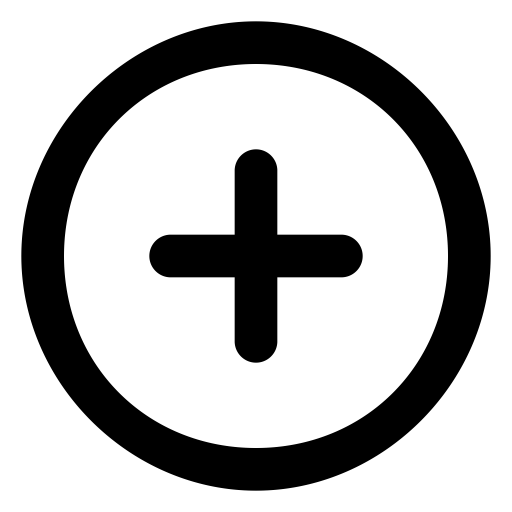
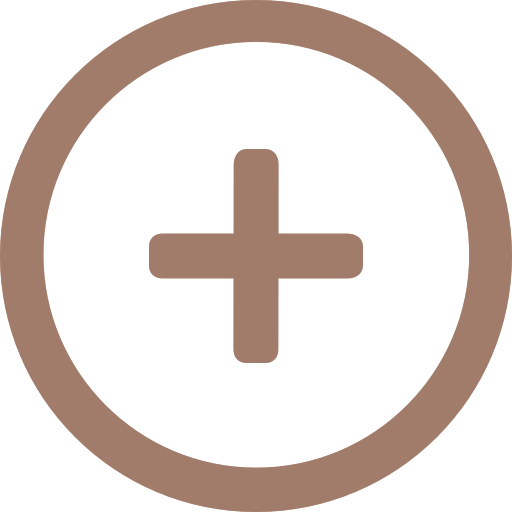
Added style

diff --git a/src/App/components/Todos/Todos.js b/src/App/components/Todos/Todos.js
@@ -1,5 +1,6 @@
 import React from "react";
 import TodoForm from "../TodoForm/TodoForm";
+import "./Todos.css";
 
 export default class Todos extends React.Component{
     constructor(props) {
@@ -62,16 +63,25 @@ export default class Todos extends React.Component{
               }
     render(){ 
         return(
-        <div>
+        <div className="todo-list-container">
             <h1>To do List:</h1>
             <TodoForm onFormSubmit={this.onFormSubmit}/>
+
             {this.state.todolist.map((todo) => {
     return(
-    <div key={todo.id}>  
-  <input name="task" defaultValue={todo.task} type="text" onChange={ (e) => this.handleChange(e.target.value, todo.id)}/>
-    <button value={todo.id} onClick={() => this.handleTodoDelete(todo.id)}>
+    <div className="todo_container" key={todo.id}>  
+    <ul>
+      <li>
+      <input name="task" defaultValue={todo.task} type="text" onChange={ (e) => this.handleChange(e.target.value, todo.id)}/>
+      </li>
+      <li>
+      <button value={todo.id} onClick={() => this.handleTodoDelete(todo.id)}>
         <img alt="trash icon" src={require('../../images/trash-icon.png')} style={{width: 30}} />
         </button>
+      </li>
+    </ul>
+  
+    
     </div>
     )
   })

diff --git a/src/App/components/Todos/Todos.css b/src/App/components/Todos/Todos.css
@@ -1,0 +1,64 @@
+.todo-list-container {
+  background-color: white;
+  border-radius: 10px;
+  min-height: 150px;
+  height: auto;
+  margin: auto;
+  width: 40%;
+  padding-bottom: 50px;
+}
+
+h1 {
+  font-family: "Caveat", cursive;
+  font-size: 50px;
+  font-weight: 50;
+}
+
+input[type="text"] {
+  font-family: "Dekko", cursive;
+  font-size: 18px;
+}
+
+button {
+  background: none;
+  border: none;
+  padding: 0;
+  cursor: pointer;
+  transition: all 0.2s ease-in-out;
+}
+
+button:hover {
+  transform: scale(1.1);
+}
+
+input {
+  min-width: 18vw;
+  border: 0;
+  border-bottom: 2px solid gray;
+  outline: 0;
+  padding: 7px 0;
+  background: transparent;
+  transition: border-color 0.2s;
+}
+
+input[type="text"]:hover {
+  color: #a17c6b;
+}
+
+img {
+  bottom: 0;
+}
+
+img:hover {
+  opacity: 0.7;
+}
+
+ul {
+  vertical-align: bottom;
+}
+
+ul li {
+  list-style: none;
+  display: inline-block;
+  text-align: center;
+}

diff --git a/src/App/App.css b/src/App/App.css
@@ -1,31 +1,7 @@
+@import url("https://fonts.googleapis.com/css2?family=Caveat:wght@700&family=Dekko&display=swap");
+
 .App {
   text-align: center;
-}
-
-.App-logo {
-  height: 40vmin;
-  pointer-events: none;
-}
-
-@media (prefers-reduced-motion: no-preference) {
-  .App-logo {
-    animation: App-logo-spin infinite 20s linear;
-  }
-}
-
-.App-header {
-  background-color: #282c34;
-  min-height: 100vh;
-  display: flex;
-  flex-direction: column;
-  align-items: center;
-  justify-content: center;
-  font-size: calc(10px + 2vmin);
-  color: white;
-}
-
-.App-link {
-  color: #61dafb;
 }
 
 @keyframes App-logo-spin {
@@ -35,4 +11,8 @@
   to {
     transform: rotate(360deg);
   }
+}
+
+body {
+  background-color: #e0f2e9;
 }

diff --git a/src/App/components/TodoForm/TodoForm.js b/src/App/components/TodoForm/TodoForm.js
@@ -43,10 +43,16 @@ export default class TodoForm extends React.Component{
         return(
             <div>
 <form onSubmit={this.onSubmit}>
-  <input name="task" value={this.state.task} type="text" onChange={this.onChange}/>
+  <ul>
+    <li>
+  <input placeholder="New Todo" name="task" value={this.state.task} type="text" onChange={this.onChange}/>
+    </li>
+    <li>
   <button type="submit" value="Submit">
-  <img alt="plus icon" src={require('../../images/plus-icon.png')} style={{width: 30}} />
+  <img alt="plus icon" src={require('../../images/plus-icon.png')} style={{width: 40}} />
   </button>
+    </li>
+  </ul>
 </form>
             </div>
         )
